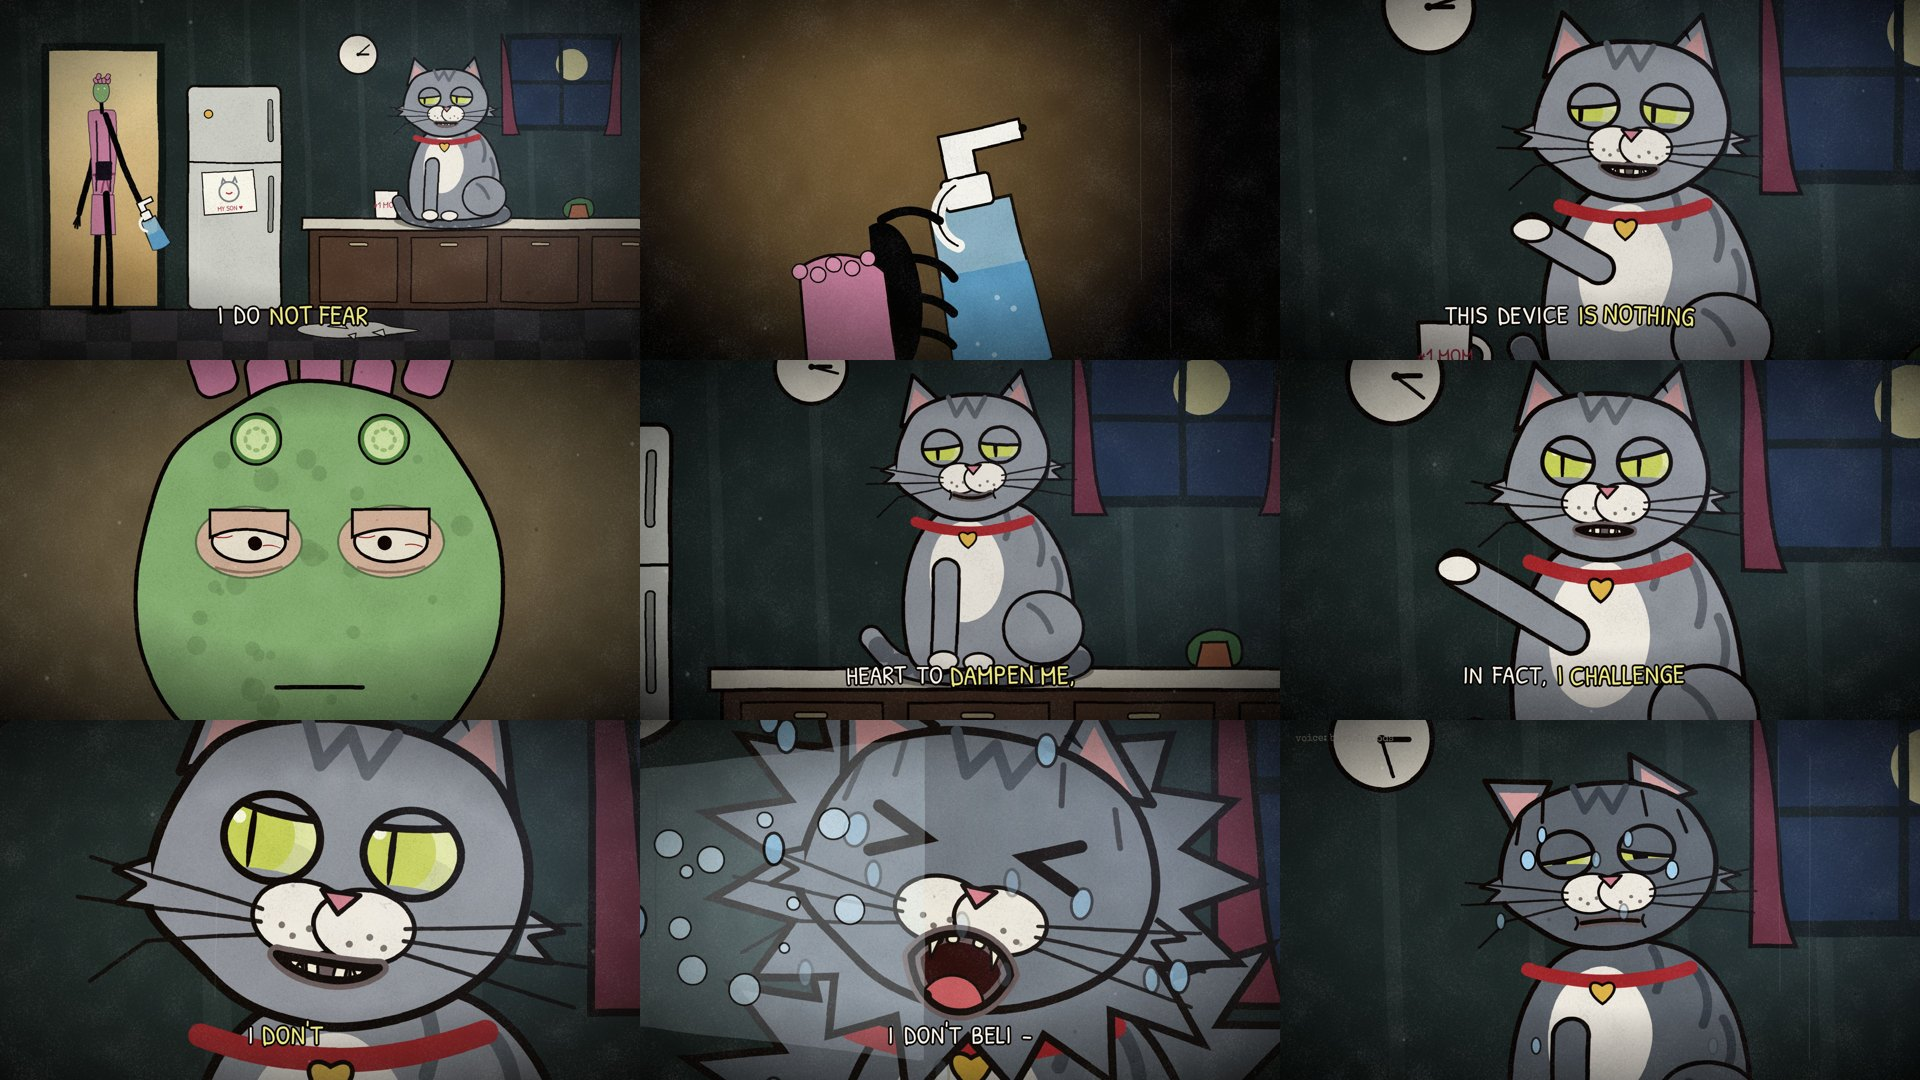
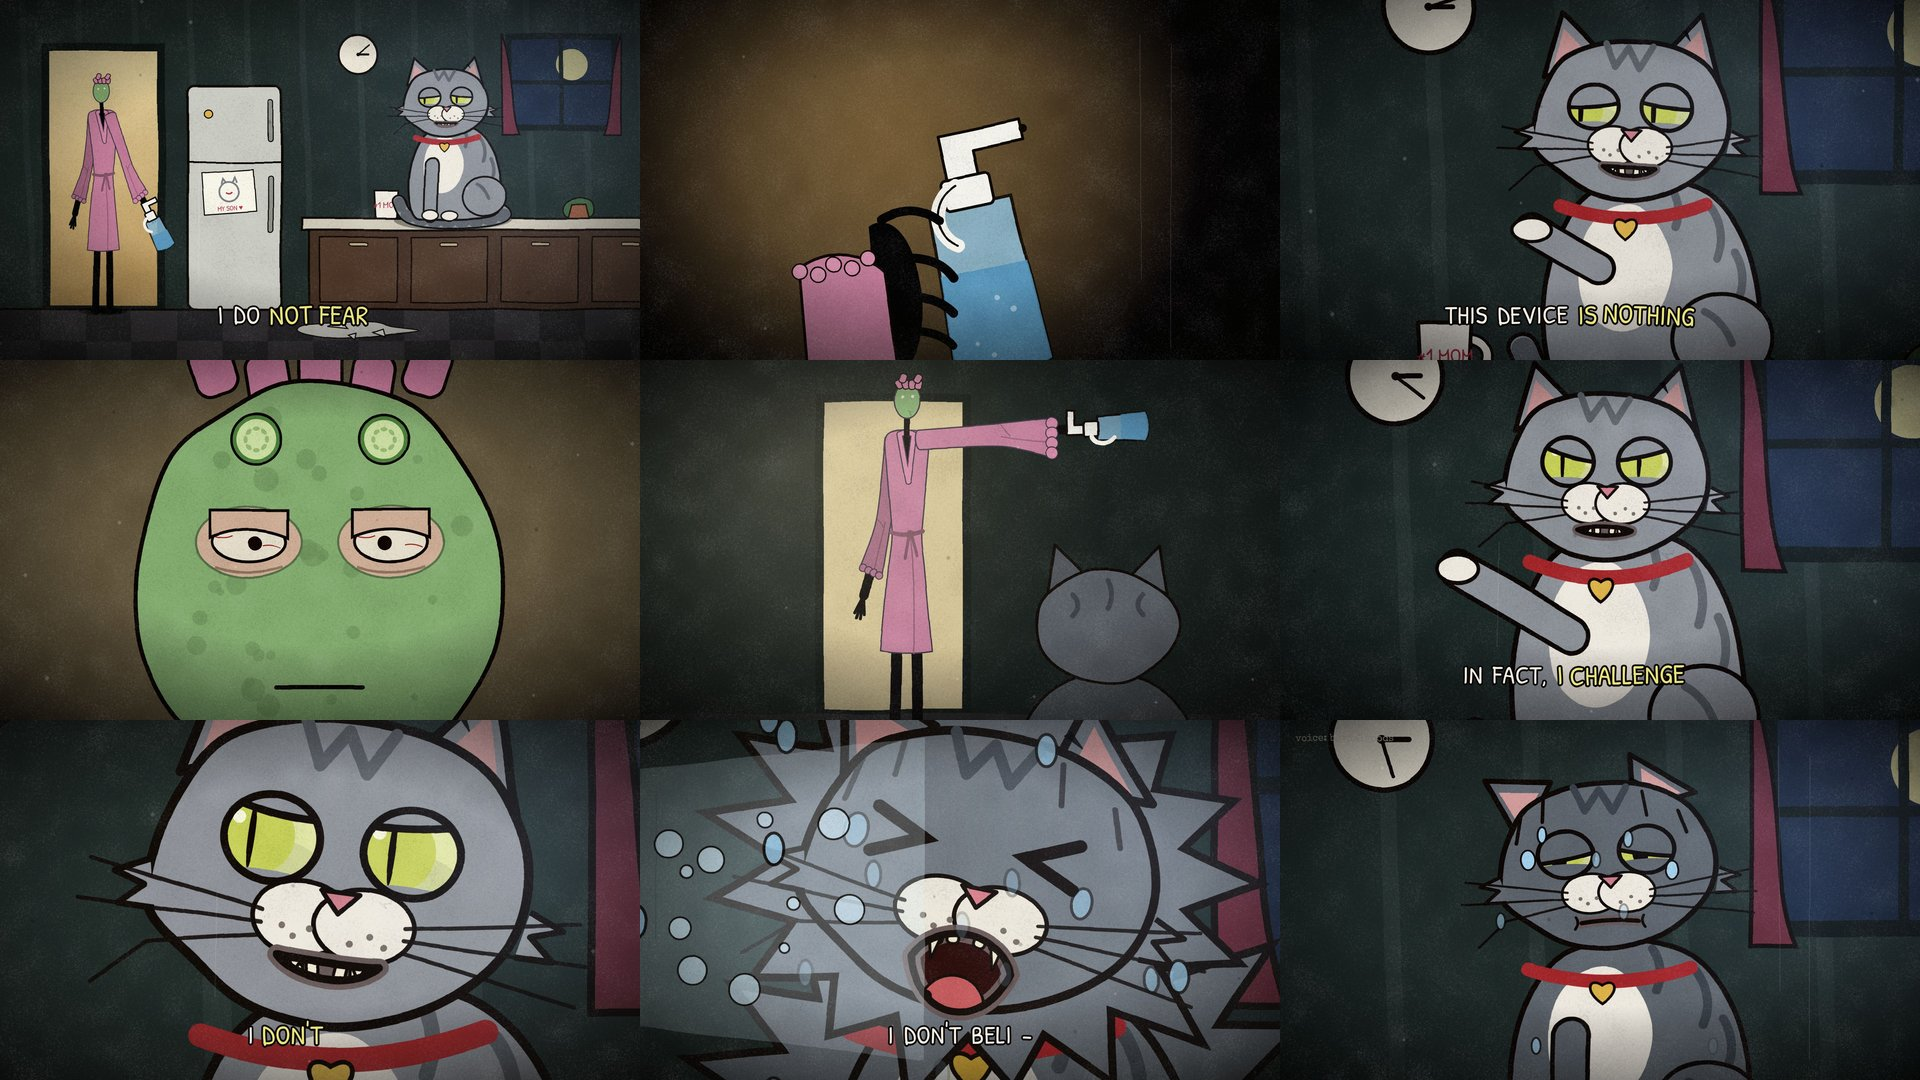
ep003: Mother's arms and legs go under her robe; sleeves follow the arms
TallFigure robe mode is now a real garment instead of a pink torso with
black limbs drawn over it:
- both arms sit inside sleeves built from the arm's own shoulder/elbow/
  wrist joints, so they bend and swing with the arm; bell cuff with the
  bare wrist poking out, underside sags more the more horizontal the
  arm is, slight flutter
- arms hang from the shoulder seams in a robe (not next to the neck)
- one-piece knee-length robe; both legs drawn under the hem
- V neckline with shawl collar and tie belt replace the overalls bib
- figures without a robe render pixel-identically to before

Over-shoulder shot: smaller step-in growth and camera tilt so her head
and curlers stay in frame. Preview sheet updated.

Claude-Session: https://claude.ai/code/session_01VqQTwjWtmaiMx9w225Yfgt

Changed region(s): [[0.3125, 0.3361, 0.6875, 0.6722], [0.0312, 0.0917, 0.0938, 0.2444]]

diff --git a/video/src/characters/TallFigure.tsx b/video/src/characters/TallFigure.tsx
@@ -46,11 +46,88 @@ export interface TallFigureProps {
   tears?: boolean;
   halo?: boolean;
   sway?: number;
-  /** domestic look: torso colour (robe), pink hair curlers instead of a hat, face colour (e.g. a green face mask) */
+  /** domestic look: robe colour (one-piece knee-length robe with sleeves over both arms), pink hair curlers instead of a hat, face colour (e.g. a green face mask) */
   robe?: string;
   curlers?: boolean;
   face?: string;
 }
+
+/** Multiply a #rrggbb colour's channels by k (k < 1 darker, k > 1 lighter). */
+const shade = (hex: string, k: number) => {
+  const n = parseInt(hex.slice(1), 16);
+  const ch = (v: number) => Math.round(Math.min(255, Math.max(0, v * k))).toString(16).padStart(2, "0");
+  return `#${ch((n >> 16) & 255)}${ch((n >> 8) & 255)}${ch(n & 255)}`;
+};
+
+const unit = (a: Pt, b: Pt): Pt => {
+  const dx = b[0] - a[0];
+  const dy = b[1] - a[1];
+  const l = Math.hypot(dx, dy) || 1;
+  return [dx / l, dy / l];
+};
+const mixPt = (a: Pt, b: Pt, k: number): Pt => [a[0] + (b[0] - a[0]) * k, a[1] + (b[1] - a[1]) * k];
+const f = (p: Pt) => `${p[0].toFixed(1)},${p[1].toFixed(1)}`;
+
+/**
+ * A robe sleeve over an arm [shoulder, elbow, wrist]. Built from the arm's own joints, so it bends and swings
+ * with the arm: it tapers to the elbow, flares into a bell cuff part-way down the forearm (the bare wrist pokes
+ * out) and, the more horizontal the arm, the more its underside sags under its own weight.
+ */
+const Sleeve: React.FC<{ arm: Pt[]; u: number; color: string; trim: string; fold: string; line: string; flutter: number }> = ({
+  arm,
+  u,
+  color,
+  trim,
+  fold,
+  line,
+  flutter,
+}) => {
+  const [S, E, H] = arm;
+  const C = mixPt(E, H, 0.66);
+  const dU = unit(S, E);
+  const dF = unit(E, C);
+  const dE = unit([0, 0], [dU[0] + dF[0], dU[1] + dF[1]]);
+  // the same side of the arm is "underneath" at every joint (picked once from the arm's overall direction)
+  const sgn = H[0] >= S[0] ? 1 : -1;
+  const side = (p: Pt, d: Pt, halfW: number, sag: number): [Pt, Pt] => {
+    const n: Pt = [-d[1] * sgn, d[0] * sgn];
+    const hang = sag * Math.abs(d[0]) * flutter;
+    return [
+      [p[0] - n[0] * halfW, p[1] - n[1] * halfW],
+      [p[0] + n[0] * halfW, p[1] + n[1] * halfW + hang],
+    ];
+  };
+  const [sUp, sLo] = side(S, dU, 22 * u, 0);
+  const [eUp, eLo] = side(E, dE, 17 * u, 20 * u);
+  const [cUp, cLo] = side(C, dF, 26 * u, 40 * u);
+  const back = (p: Pt): Pt => [p[0] - dU[0] * 12 * u, p[1] - dU[1] * 12 * u];
+  const curve = (pts: Pt[]) => smoothPath(pts, false, 0.9).replace(/^M[^C]*/, "");
+  const d = `M${f(sUp)}${curve([sUp, eUp, cUp])} L${f(cLo)}${curve([cLo, eLo, sLo])} C${f(back(sLo))} ${f(back(sUp))} ${f(sUp)} Z`;
+  // fluffy terry-cloth cuff along the opening
+  const cuffN = 4;
+  const cuffR = (Math.hypot(cLo[0] - cUp[0], cLo[1] - cUp[1]) / cuffN) * 0.62;
+  const foldA = mixPt(mixPt(eUp, eLo, 0.62), E, 0.15);
+  const foldB = mixPt(cUp, cLo, 0.6);
+  const foldMid = mixPt(foldA, foldB, 0.5);
+  return (
+    <g>
+      <path d={d} fill={color} stroke={line} strokeWidth={3 * u} strokeLinejoin="round" />
+      {/* elbow crease + a fold hanging down the forearm */}
+      <path
+        d={`M${f(mixPt(eUp, E, 0.2))} Q${f([E[0] + dF[0] * 8 * u, E[1] + dF[1] * 8 * u])} ${f([mixPt(E, eLo, 0.35)[0] + dF[0] * 20 * u, mixPt(E, eLo, 0.35)[1] + dF[1] * 20 * u])}`}
+        stroke={fold}
+        strokeWidth={3 * u}
+        fill="none"
+        strokeLinecap="round"
+      />
+      <path d={`M${f(foldA)} Q${f([foldMid[0], foldMid[1] + 6 * u])} ${f(foldB)}`} stroke={fold} strokeWidth={3 * u} fill="none" strokeLinecap="round" />
+      {Array.from({ length: cuffN }).map((_, i) => {
+        const p = mixPt(cUp, cLo, (i + 0.5) / cuffN);
+        return <circle key={i} cx={p[0]} cy={p[1]} r={cuffR} fill={trim} stroke={line} strokeWidth={2.2 * u} />;
+      })}
+    </g>
+  );
+};
 
 const HoldProp: React.FC<{ kind: Hold; at: Pt; angle: number; s: number }> = ({ kind, at, angle, s }) => {
   if (!kind) return null;
@@ -175,8 +252,11 @@ export const TallFigure: React.FC<TallFigureProps> = ({
   const legF = limb([12 * u, hipY], [P.legF[0], P.legF[1]], legLen);
   const legB = limb([-12 * u, hipY], [P.legB[0], P.legB[1]], legLen);
   const armLen = [190 * u, 180 * u];
-  const armF = limb([sh[0] + 14 * u, sh[1] + 10 * u], [P.armF[0], P.armF[1]], armLen);
-  const armB = limb([sh[0] - 14 * u, sh[1] + 10 * u], [P.armB[0], P.armB[1]], armLen);
+  // in a robe the arms hang from the shoulder seams, so the sleeves start at the shoulders (not at the neck)
+  const shX = (robe ? 30 : 14) * u;
+  const shY = sh[1] + (robe ? 12 : 10) * u;
+  const armF = limb([sh[0] + shX, shY], [P.armF[0], P.armF[1]], armLen);
+  const armB = limb([sh[0] - shX, shY], [P.armB[0], P.armB[1]], armLen);
   const limbW = 22 * u;
 
   const torso = smoothPath(
@@ -210,6 +290,79 @@ export const TallFigure: React.FC<TallFigureProps> = ({
   };
 
   const limbPath = (pts: Pt[]) => smoothPath(pts, false, 0.5);
+  const legs = (pts: Pt[]) => (
+    <>
+      <path d={limbPath(pts)} stroke={fill} strokeWidth={limbW * 1.15} fill="none" strokeLinecap="round" strokeLinejoin="round" />
+      <path d={`M${pts[2][0] - 10 * u},${pts[2][1]} l${46 * u},0`} stroke={fill} strokeWidth={16 * u} strokeLinecap="round" />
+    </>
+  );
+
+  // Robe: one knee-length garment over the body; both legs go under it, both arms inside its sleeves.
+  let robeParts: React.ReactNode = null;
+  let sleeve: (arm: Pt[], back: boolean) => React.ReactNode = () => null;
+  if (robe) {
+    const hip: Pt = [0, hipY];
+    const axis = unit(hip, sh);
+    const perp: Pt = [-axis[1], axis[0]];
+    const along = (k: number, off = 0): Pt => {
+      const p = mixPt(hip, sh, k);
+      return [p[0] + perp[0] * off, p[1] + perp[1] * off];
+    };
+    const hemY = hipY + 205 * u;
+    // the hem follows the knees
+    const hemX = ((legF[1][0] + legB[1][0]) / 2) * (205 / 218);
+    const waist = 0.24;
+    const body =
+      smoothPath(
+        [
+          [hemX - 60 * u, hemY],
+          [-42 * u, hipY + 6 * u],
+          along(waist, -35 * u),
+          [sh[0] - 52 * u, sh[1] + 18 * u],
+          [sh[0] - 28 * u, sh[1] - 8 * u],
+          [sh[0] + 28 * u, sh[1] - 8 * u],
+          [sh[0] + 52 * u, sh[1] + 18 * u],
+          along(waist, 35 * u),
+          [42 * u, hipY + 6 * u],
+          [hemX + 60 * u, hemY],
+        ],
+        false,
+        0.6,
+      ) + ` Q${f([hemX, hemY + 10 * u])} ${f([hemX - 60 * u, hemY])} Z`;
+    const belt = shade(robe, 0.66);
+    const trim = shade(robe, 1.08);
+    const knot = along(waist, 6 * u);
+    const vBottom = along(0.64, 4 * u);
+    const collarL = along(1, -17 * u);
+    const collarR = along(1, 17 * u);
+    const nape = along(1.03);
+    robeParts = (
+      <g>
+        <path d={body} fill={robe} stroke={rim} strokeWidth={3 * u} strokeLinejoin="round" />
+        {/* wrap edge from the knot down to the hem */}
+        <path d={`M${f([knot[0] + 2 * u, knot[1] + 8 * u])} Q${f([knot[0] + 18 * u, (knot[1] + hemY) / 2])} ${f([hemX + 16 * u, hemY + 6 * u])}`} stroke={shade(robe, 0.72)} strokeWidth={3 * u} fill="none" strokeLinecap="round" />
+        {/* V neckline (bare black chest) + shawl collar wrapping behind the neck */}
+        <path d={`M${f(collarL)} L${f(collarR)} L${f(vBottom)} Z`} fill={fill} />
+        <path d={`M${f(vBottom)} L${f(collarL)} Q${f(nape)} ${f(collarR)} Z`} fill="none" stroke={rim} strokeWidth={15 * u} strokeLinejoin="round" />
+        <path d={`M${f(vBottom)} L${f(collarL)} Q${f(nape)} ${f(collarR)} Z`} fill="none" stroke={trim} strokeWidth={10 * u} strokeLinejoin="round" />
+        {/* tie belt */}
+        <path d={`M${f(along(waist, -37 * u))} Q${f(along(waist - 0.035, 0))} ${f(along(waist + 0.013, 37 * u))}`} stroke={belt} strokeWidth={10 * u} fill="none" strokeLinecap="round" />
+        <path d={`M${f(knot)} l${-10 * u},${60 * u} M${f([knot[0] + 4 * u, knot[1]])} l${14 * u},${54 * u}`} stroke={belt} strokeWidth={7 * u} strokeLinecap="round" />
+        <ellipse cx={knot[0] + 2 * u} cy={knot[1]} rx={8 * u} ry={6 * u} fill={belt} />
+      </g>
+    );
+    sleeve = (arm, back) => (
+      <Sleeve
+        arm={arm}
+        u={u}
+        color={shade(robe, back ? 0.82 : 1)}
+        trim={shade(trim, back ? 0.82 : 1)}
+        fold={shade(robe, back ? 0.64 : 0.78)}
+        line={rim}
+        flutter={1 + 0.12 * noise2D(id + (back ? "sleeveB" : "sleeveF"), t2 * 0.9, 0)}
+      />
+    );
+  }
   const headRx = 30 * u;
   const headRy = 42 * u;
   const grinW = headRx * 1.9 * grin;
@@ -229,31 +382,32 @@ export const TallFigure: React.FC<TallFigureProps> = ({
   return (
     <g transform={`translate(${x} ${y}) scale(${flip ? -1 : 1} 1)`}>
       <ellipse cx={0} cy={0} rx={90 * u} ry={14 * u} fill="#000" opacity={0.35} />
-      {/* back limbs */}
+      {/* back limbs (in a robe: the back arm wears its sleeve, both legs go under the hem) */}
       <path d={limbPath(armB)} stroke={fill} strokeWidth={limbW} fill="none" strokeLinecap="round" strokeLinejoin="round" />
       {hand(armB, holdB, -1)}
-      <path d={limbPath(legB)} stroke={fill} strokeWidth={limbW * 1.15} fill="none" strokeLinecap="round" strokeLinejoin="round" />
-      <path d={`M${legB[2][0] - 10 * u},${legB[2][1]} l${46 * u},0`} stroke={fill} strokeWidth={16 * u} strokeLinecap="round" />
-      {/* torso: overalls hint */}
-      <path d={torso} fill={robe ?? fill} stroke={rim} strokeWidth={3 * u} />
+      {sleeve(armB, true)}
+      {legs(legB)}
       {robe ? (
-        <g>
-          <path d={`M${-36 * u},${hipY - 70 * u} Q0,${hipY - 60 * u} ${36 * u},${hipY - 74 * u}`} stroke="#8a3d5e" strokeWidth={10 * u} fill="none" strokeLinecap="round" />
-          <path d={`M${4 * u},${hipY - 66 * u} l${-10 * u},${60 * u} M${8 * u},${hipY - 66 * u} l${14 * u},${54 * u}`} stroke="#8a3d5e" strokeWidth={7 * u} strokeLinecap="round" />
-          <path d={`M${-40 * u},${hipY + 4 * u} L${-46 * u},${hipY + 150 * u} L${46 * u},${hipY + 150 * u} L${40 * u},${hipY + 4 * u} Z`} fill={robe} stroke={rim} strokeWidth={3 * u} />
-        </g>
-      ) : null}
-      <path
-        d={`M${-26 * u},${hipY - 8 * u} L${sh[0] - 22 * u},${sh[1] + 30 * u} M${26 * u},${hipY - 8 * u} L${sh[0] + 22 * u},${sh[1] + 30 * u}`}
-        stroke="#211b29"
-        strokeWidth={6 * u}
-      />
-      <rect x={-30 * u} y={hipY - 120 * u} width={60 * u} height={70 * u} rx={6 * u} fill="#17121d" transform={`rotate(${lean * 0.6} 0 ${hipY})`} />
+        <>
+          {legs(legF)}
+          {robeParts}
+        </>
+      ) : (
+        <>
+          {/* torso: overalls hint */}
+          <path d={torso} fill={fill} stroke={rim} strokeWidth={3 * u} />
+          <path
+            d={`M${-26 * u},${hipY - 8 * u} L${sh[0] - 22 * u},${sh[1] + 30 * u} M${26 * u},${hipY - 8 * u} L${sh[0] + 22 * u},${sh[1] + 30 * u}`}
+            stroke="#211b29"
+            strokeWidth={6 * u}
+          />
+          <rect x={-30 * u} y={hipY - 120 * u} width={60 * u} height={70 * u} rx={6 * u} fill="#17121d" transform={`rotate(${lean * 0.6} 0 ${hipY})`} />
+        </>
+      )}
       {/* neck */}
       <path d={`M${sh[0]},${sh[1]} L${neckTop[0]},${neckTop[1]}`} stroke={fill} strokeWidth={14 * u} strokeLinecap="round" />
-      {/* front limbs */}
-      <path d={limbPath(legF)} stroke={fill} strokeWidth={limbW * 1.15} fill="none" strokeLinecap="round" strokeLinejoin="round" />
-      <path d={`M${legF[2][0] - 10 * u},${legF[2][1]} l${46 * u},0`} stroke={fill} strokeWidth={16 * u} strokeLinecap="round" />
+      {/* front leg */}
+      {robe ? null : legs(legF)}
       {/* head */}
       <g transform={`translate(${headC[0]} ${headC[1]}) rotate(${P.head + lean * 0.3})`}>
         {halo ? <ellipse cx={0} cy={-headRy - 46 * u} rx={46 * u} ry={12 * u} fill="none" stroke="#f3d65a" strokeWidth={8 * u} /> : null}
@@ -327,6 +481,7 @@ export const TallFigure: React.FC<TallFigureProps> = ({
       </g>
       <path d={limbPath(armF)} stroke={fill} strokeWidth={limbW} fill="none" strokeLinecap="round" strokeLinejoin="round" />
       {hand(armF, holdF, 1)}
+      {sleeve(armF, false)}
     </g>
   );
 };

diff --git a/video/src/episodes/003-wouldnt/kitchen.tsx b/video/src/episodes/003-wouldnt/kitchen.tsx
@@ -305,14 +305,14 @@ export const OverShoulderScene: React.FC = () => {
   const { shot } = useEpisode();
   const { t, frame, local } = shot;
   const step = easeInOut(prog(local, 0.0, 0.95));
-  const cam = camLerp({ x: 960, y: 520, zoom: 1.0 }, { x: 960, y: 500, zoom: 1.06 }, easeInOut(shot.p));
+  const cam = camLerp({ x: 960, y: 520, zoom: 1.0 }, { x: 960, y: 480, zoom: 1.06 }, easeInOut(shot.p));
   return (
     <Stage cam={cam} frame={frame} overlay={<LightWash id="hallwash" color="#f3dca0" cx={500} cy={300} r={900} opacity={0.25} />}>
       <rect x={-600} y={-1300} width={3400} height={3600} fill="#1b2422" />
       <rect x={560} y={80} width={420} height={900} fill="#f3dca0" opacity={0.85} />
       <rect x={560} y={80} width={420} height={900} fill="none" stroke="#141b1a" strokeWidth={24} />
       <rect x={-600} y={980} width={3400} height={1400} fill="#2e2c30" />
-      <Mother x={lerp(770, 820, step)} y={1080} h={lerp(1050, 1200, step)} t={t} frame={frame} raise={1} />
+      <Mother x={lerp(770, 820, step)} y={1080} h={lerp(1050, 1120, step)} t={t} frame={frame} raise={1} />
       {/* the cat from behind (foreground silhouette) */}
       <g transform="translate(1380 1200)">
         <path d="M-260,0 C-280,-200 -180,-330 0,-340 C180,-330 280,-200 260,0 Z" fill="#4d5259" stroke={INK} strokeWidth={8} />
